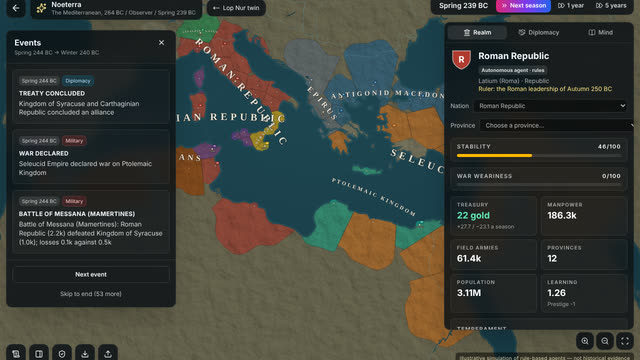
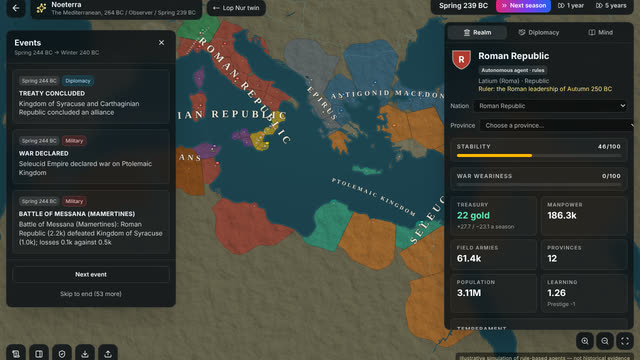
Add Noeterra's Tarim Basin world to the README's GIFs
The README's Noeterra block now shows both worlds: beside the Mediterranean
of 264 BC, fifty simulated years of Loulan and the Tarim Basin from Spring
77 BC (observer mode, seed 1, one frame per five years). Its caption points
out the cyan ring the map draws beside Loulan's capital for the twin's
airfield, about 60 km away.

tools/readme-media.mjs captures either world (`--only noeterra-tarim` for
the new one) and now shows Noeterra with reduced motion, as the app renders
it for visitors who ask for that. The map's highlights pulse otherwise, and
a frame taken at a different point in the pulse made every rerun a new GIF of
the same years. Two runs of the Mediterranean capture are now byte for byte
the same; it and its gallery thumbnail are regenerated here, with the
highlights held instead of caught mid-pulse.

Claude-Session: https://claude.ai/code/session_01RBAqY5CvW7uNuH8fGeBxrV

diff --git a/README.md b/README.md
@@ -340,11 +340,15 @@ criteria. An inconclusive result remains an inconclusive result.
 | **Digital fly**       | How do sensing, adaptation, and self-model variants respond to controlled perturbations? |
 
 <details>
-<summary>Watch fifty simulated years in Noeterra</summary>
+<summary>Watch fifty simulated years in each Noeterra world</summary>
 
 [![Noeterra observed for fifty simulated years from Spring 264 BC: borders shift as rule-based powers declare wars, conclude treaties, and annex provinces](docs/media/readme/noeterra.gif)](https://lop-nur-twin.vercel.app/noeterra?scenario=mediterranean-264bc&play=observe&seed=1)
 
 <sub>Noeterra's Mediterranean scenario in observer mode (seed 1), one frame per five simulated years. Every power is a rule-based agent; the outcome is an illustrative simulation, not historical evidence.</sub>
+
+[![Loulan and the Tarim Basin observed for fifty simulated years from Spring 77 BC: Western Han declares war on Jushi, Loulan allies with the Xiongnu, Dayuan annexes Yarkand, and Wusun joins Han's war before cancelling the alliance](docs/media/readme/noeterra-tarim.gif)](https://lop-nur-twin.vercel.app/noeterra?scenario=tarim-77bc&play=observe&seed=1)
+
+<sub>Noeterra's Tarim Basin scenario, Loulan and its neighbors from Spring 77 BC, in observer mode (seed 1), one frame per five simulated years. The cyan ring beside Loulan's capital marks the twin's airfield today, about 60 km away. Every power is a rule-based agent; the outcome is an illustrative simulation, not historical evidence.</sub>
 
 </details>
 
